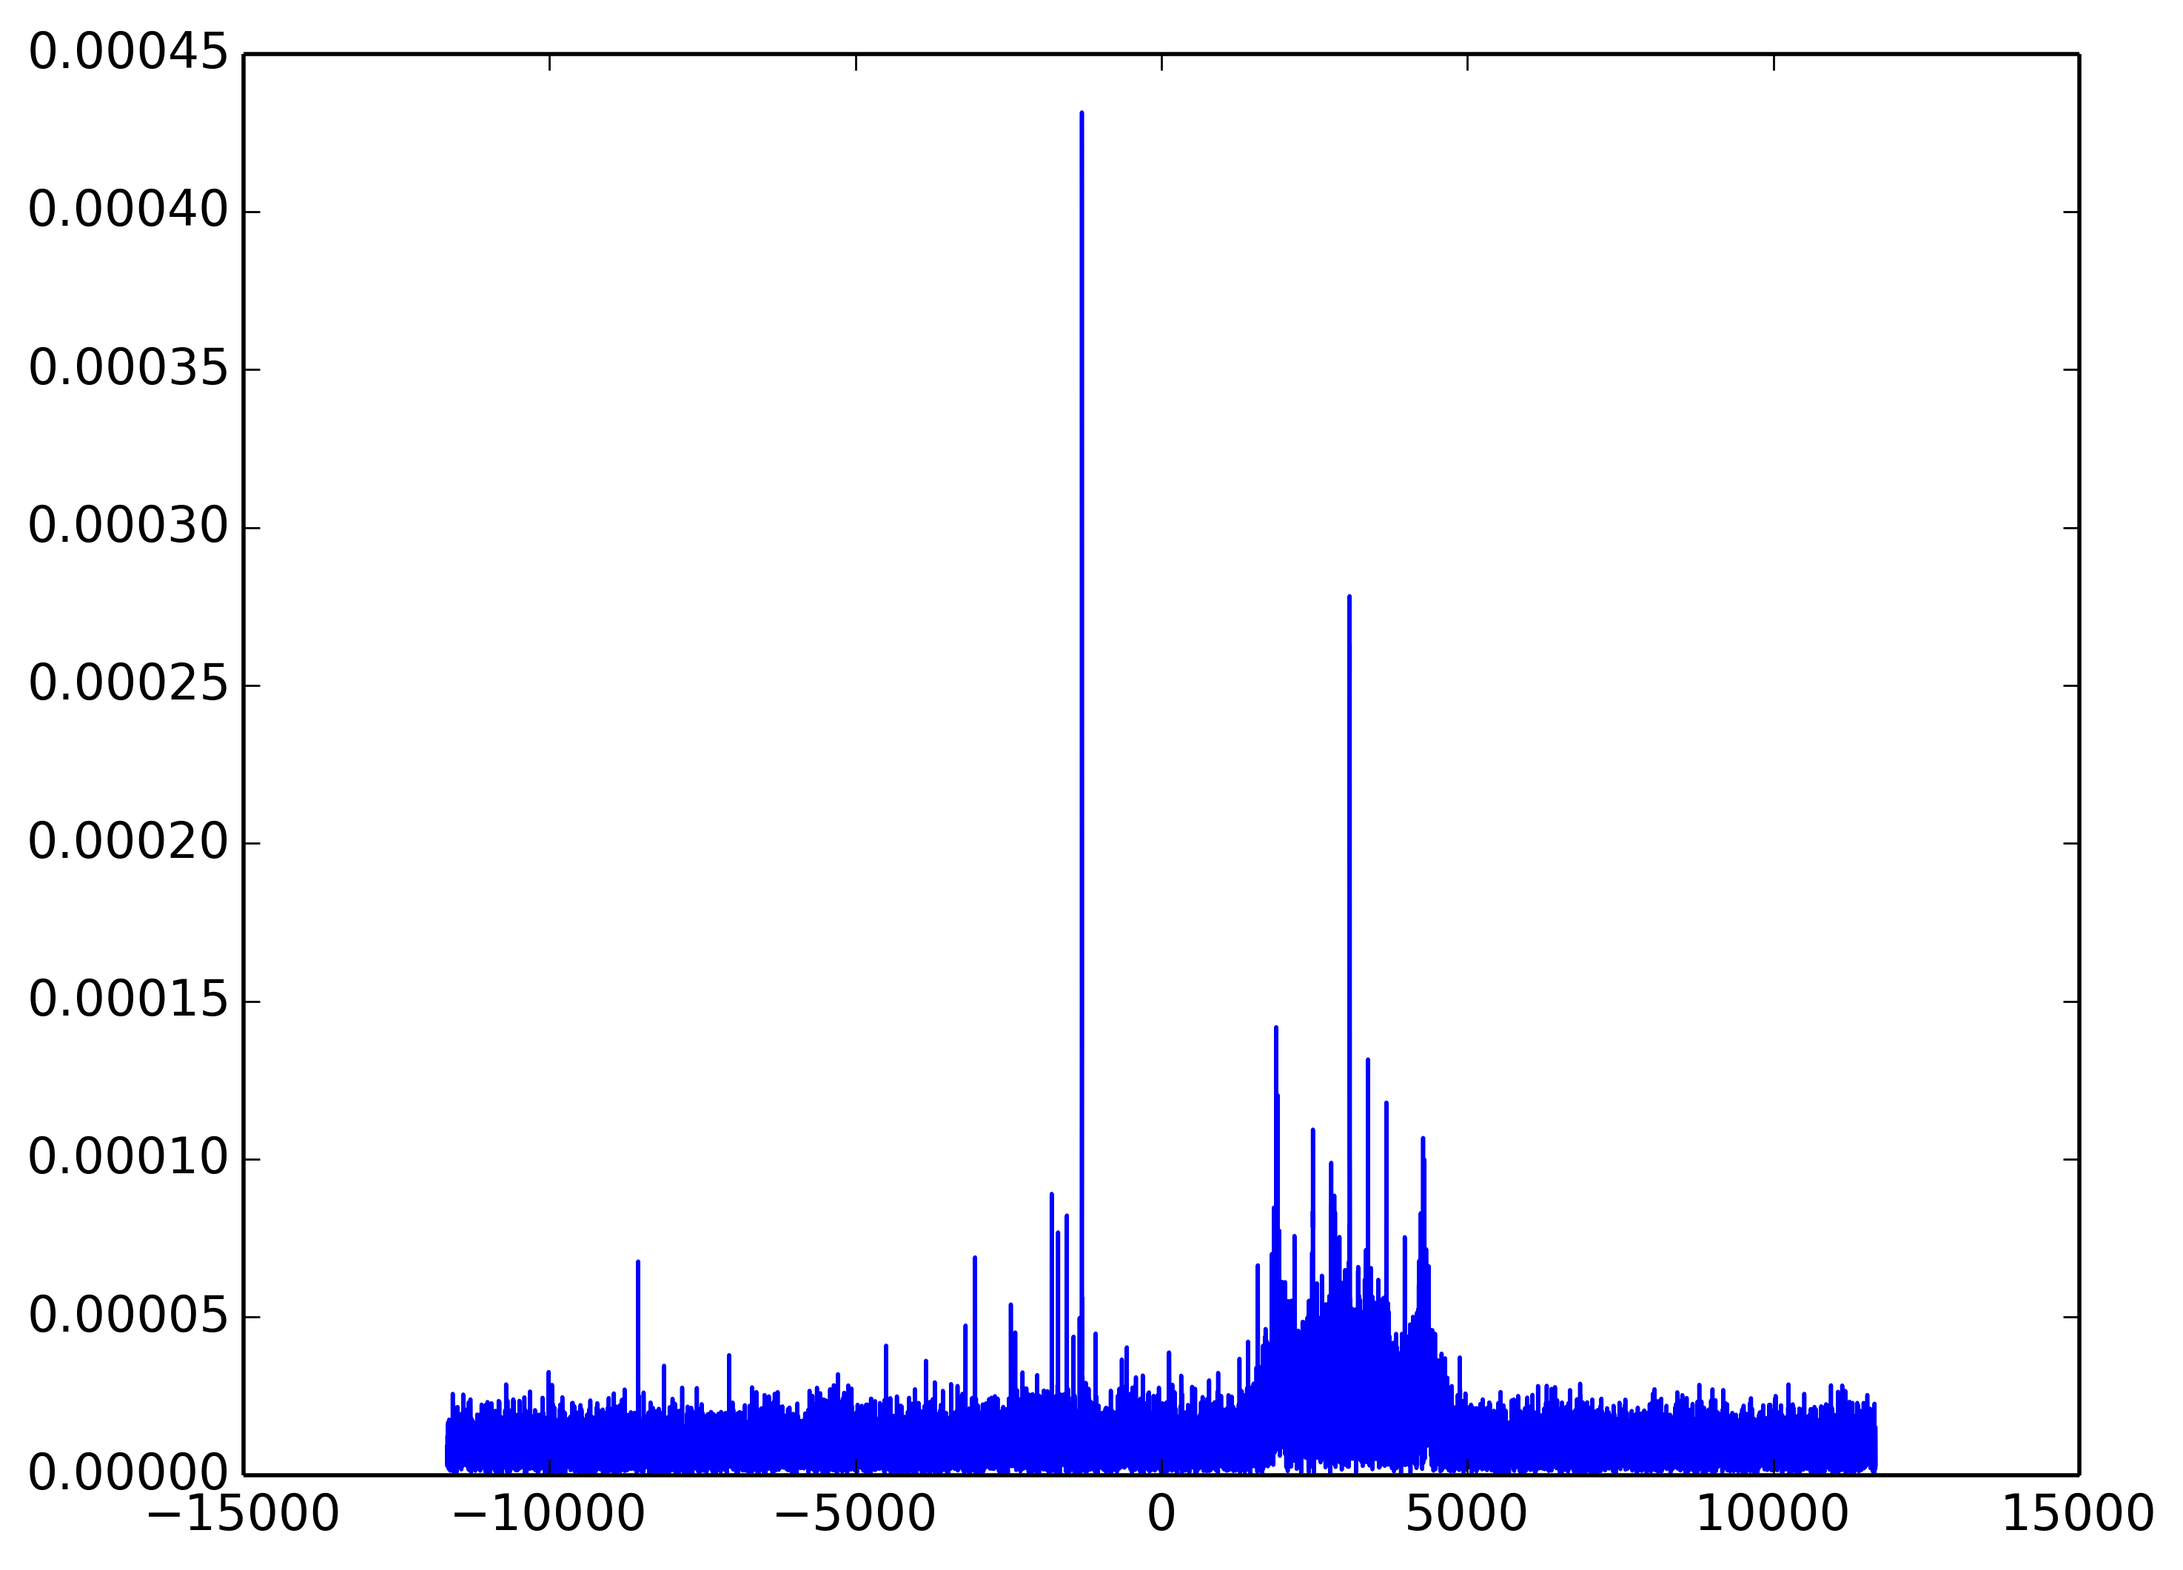
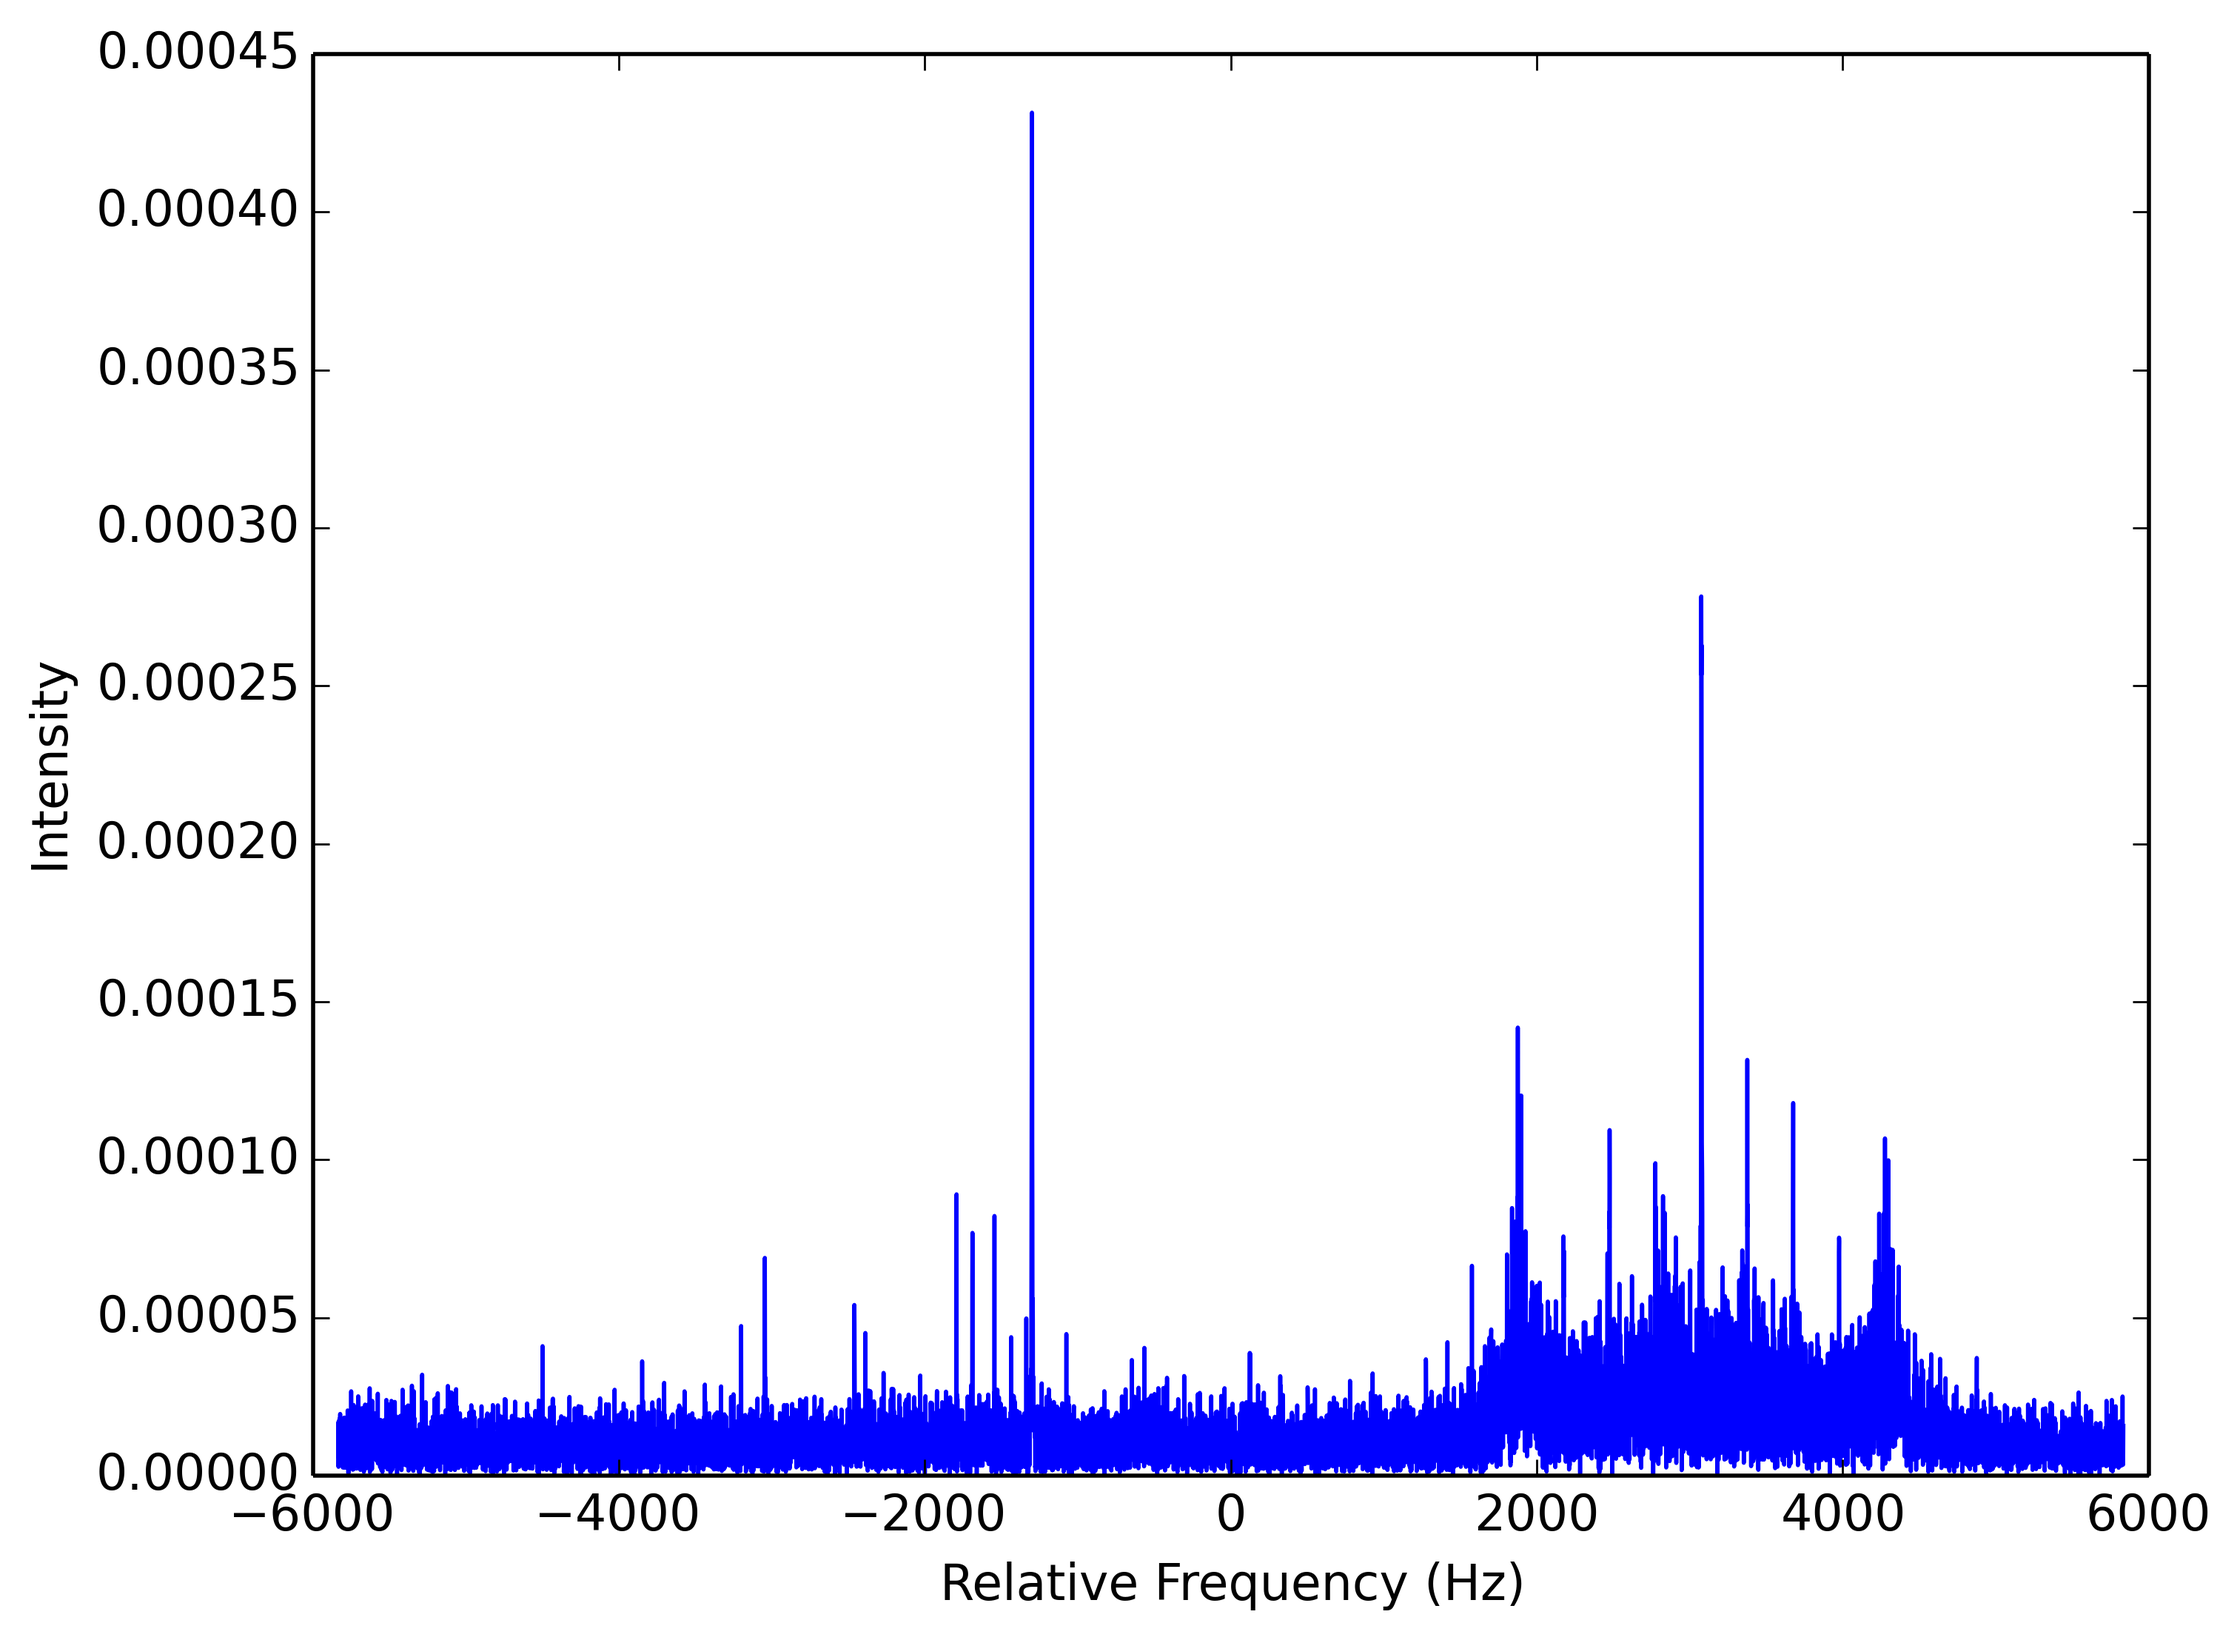
fourier image added, diskload added

diff --git a/wavReadFourier.py b/wavReadFourier.py
@@ -16,7 +16,7 @@ class wavReaderFourierTransformer:
 
 
     # Constructor
-    def __init__(self, wavFileName, startSeconds, endSeconds, intervalWidthSeconds, intervalStartSeconds, spectrumWidth):
+    def __init__(self, wavFileName, startSeconds, endSeconds, intervalWidthSeconds, intervalStartSeconds, spectrumWidth, fromDisk=True):
         self.wavFileName = wavFileName
 
         self.wavFile = Sndfile(self.wavFileName, 'r')
@@ -33,6 +33,7 @@ class wavReaderFourierTransformer:
         self.end = int(self.fs*endSeconds)
         self.intervalWidth = int(self.fs*intervalWidthSeconds)
         self.intervalStartFrequency = int(self.fs*intervalStartSeconds)
+        self.fromDisk = fromDisk
 
         self.dataExists = False
         self.amplitudes = []
@@ -115,7 +116,7 @@ class wavReaderFourierTransformer:
 
     def __requireNarrowData(self):
         if (not self.narrowDataExists):
-            if not self.loadNarrowFrequencyAmplitudes():
+            if not (self.fromDisk and self.loadNarrowFrequencyAmplitudes()):
                 if (self.dataExists):
                     self.__narrowFrequencyAmplitudes()
                 else:
@@ -302,7 +303,10 @@ class wavReaderFourierTransformer:
         self.__requireNarrowData()
         times = self.getTimes()
         for i in range(len(self.narrowAmplitudes)):
+            ax = plt.subplot(1,1,1)
             plt.plot(self.narrowFrequencies, self.narrowAmplitudes[i])
+            ax.set_xlabel("Relative Frequency (Hz)")
+            ax.set_ylabel("Intensity")
             plt.savefig('img/fourier/fourier_' + str(times[i]) + '_seconds.png', bbox_inches='tight', dpi=400)
             plt.close()
 

diff --git a/rangeRateClass.py b/rangeRateClass.py
@@ -68,7 +68,7 @@ class rangeRate:
            return timefreq
            
 
-    def __init__(self, wavFileName, start, end, intervalWidth, intervalStartFrequency, carrierfrequency,listeningfrequency, satelliteVelocity):
+    def __init__(self, wavFileName, start, end, intervalWidth, intervalStartFrequency, carrierfrequency,listeningfrequency, satelliteVelocity, fromDisk=True):
         self.wavFileName = wavFileName
         self.start = start
         self.end = end
@@ -78,7 +78,7 @@ class rangeRate:
         self.listeningfrequency = listeningfrequency
         self.cutOff = 3.0*satelliteVelocity/(3e8)*self.carrierfrequency
 
-        self.wavReader = wavReaderFourierTransformer(self.wavFileName, self.start, self.end, self.intervalWidth, self.intervalStartFrequency, self.cutOff)
+        self.wavReader = wavReaderFourierTransformer(self.wavFileName, self.start, self.end, self.intervalWidth, self.intervalStartFrequency, self.cutOff, fromDisk)
         self.lowfrequency = self.carrierfrequency - self.wavReader.getMaxFourierFrequency()
 
     def doCalculations(self):
@@ -169,7 +169,7 @@ def init():
     listeningfrequency = 145870000
     satelliteVelocity = 8000
 
-    rr = rangeRate(wavFileName, start, end, intervalWidth, intervalStartFrequency, carrierfrequency,listeningfrequency, satelliteVelocity)
+    rr = rangeRate(wavFileName, start, end, intervalWidth, intervalStartFrequency, carrierfrequency,listeningfrequency, satelliteVelocity, fromDisk=True)
     return rr
     # rr.plotFrequencyHeatMap()
 
